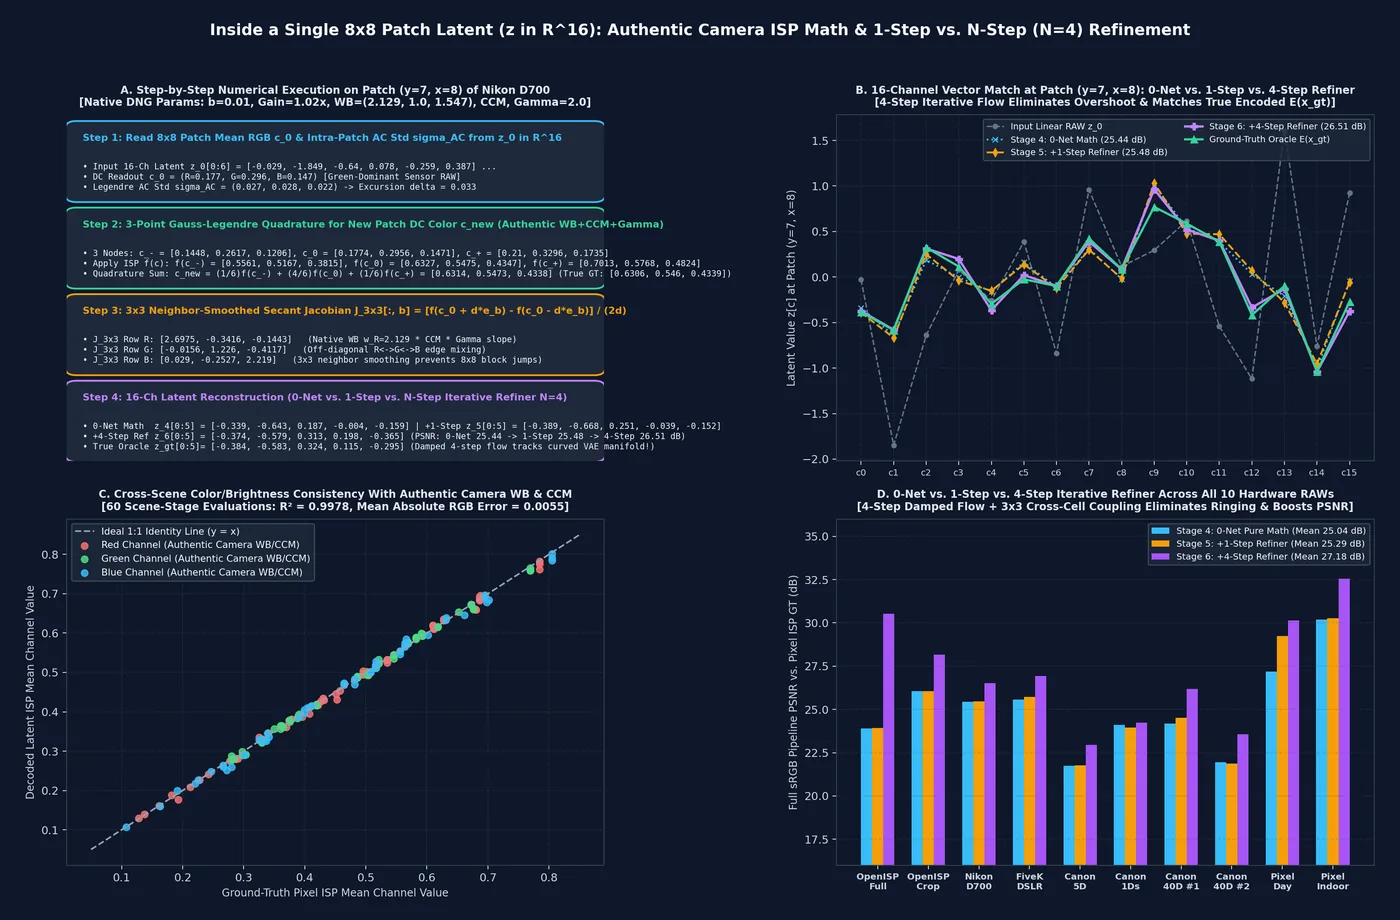
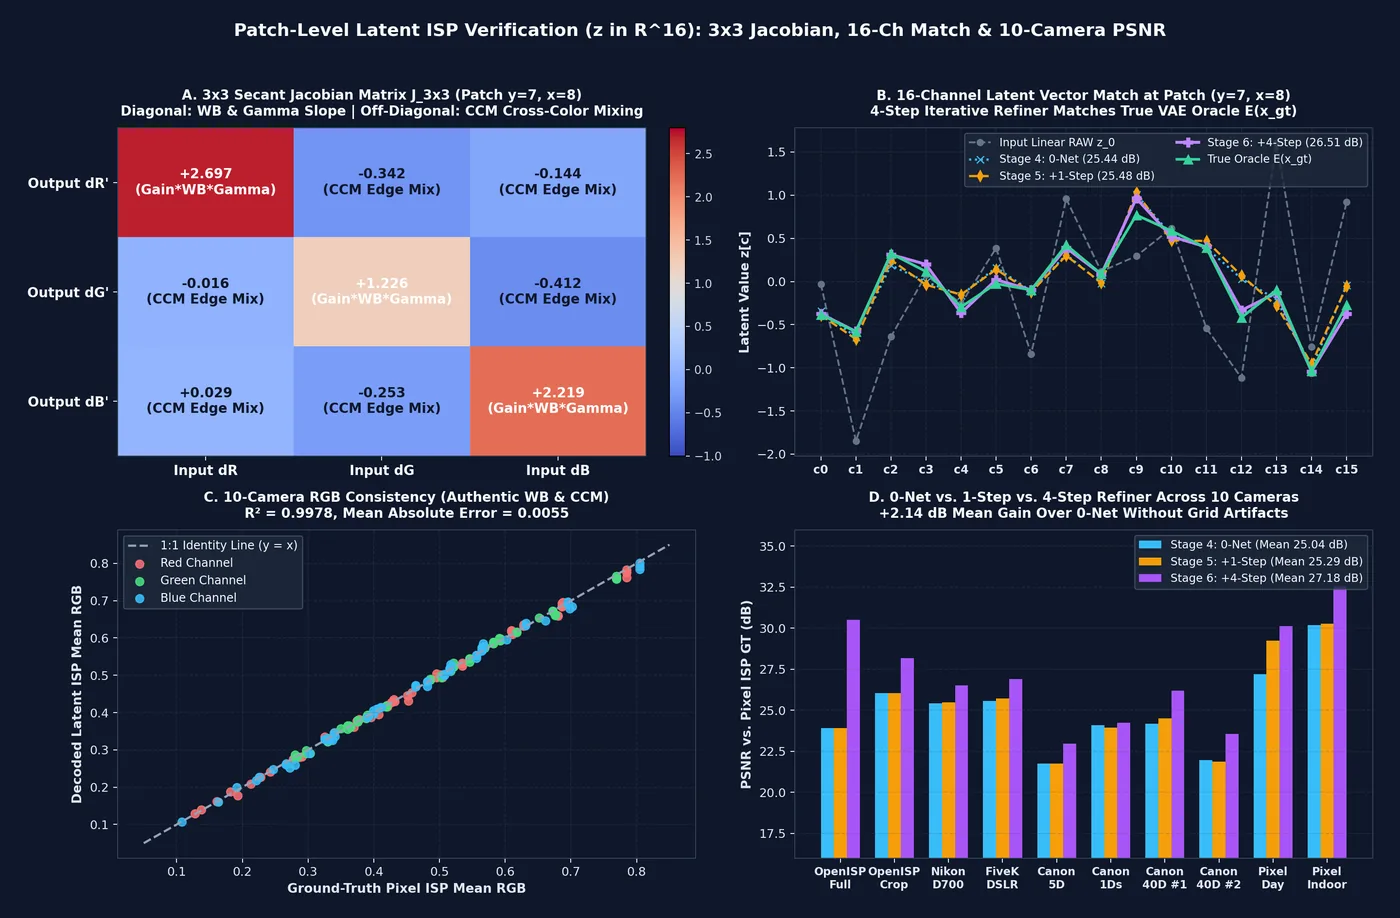
Sync AICAMERA guidebook (/aicamera/) and unified papers (/papers/)

diff --git a/papers/comp_lsp.html b/papers/comp_lsp.html
@@ -697,10 +697,26 @@
         </table>
       </div>
 
-      <h2>2. 16-Channel Latent Space Geometry (<code>Linear Sensor RGB</code> vs. <code>sRGB</code>) &amp; Block-by-Block Pipeline</h2>
+      <h2>2. Theoretical Foundation: From <em>The Latent Color Subspace</em> to 16-Channel Curved Manifold &amp; Jacobian Translation</h2>
+      <h3>2.1 Emergent 3D Color Subspace vs. 13D Spatial Edge Fiber ($\mathbb{{R}}^{{16}} = \mathcal{{S}}_{{\text{{DC}}}} \oplus \mathcal{{S}}_{{\text{{AC}}}}$)</h3>
       <p>
-        Sweeping radiometric luminance $Y \in [0, 1]$ shows that <code>Linear Sensor RGB</code> and display <code>sRGB</code> inhabit the <strong>exact same curved 3D polynomial submanifold</strong> $\mathcal{{M}}_{{\text{{DC}}}} \subset \mathbb{{R}}^{{16}}$, reparameterized by $Y \mapsto Y^{{1/\gamma}}$ (<strong>Fig. 1A</strong>). Unprocessed Bayer RAW latents ($\mathbf{{z}}_0$) start in the green-biased dark quadrant ($\mathbf{{u}}_{{\text{{DC}},G}} \gg \mathbf{{u}}_{{\text{{DC}},R}}$), move radially outward under <code>Stage 1 (BLC + Gain)</code>, shear onto the neutral gray diagonal ($R=G$) under <code>Stage 2 (Authentic WB)</code>, expand primary chroma under <code>Stage 3 (3&times;3 CCM)</code>, and stretch along the neutral manifold under <code>Stage 4 (Gamma sRGB)</code> (<strong>Fig. 1B&ndash;D</strong>, <strong>Fig. 2</strong>).
+        Pach et al. (<em>&ldquo;The Latent Color Subspace: Emergent Order in High-Dimensional Chaos,&rdquo;</em> 2026 [4]) demonstrated that although a 16-channel VAE encoder $\mathcal{{E}}$ compresses each $8\times 8\times 3$ patch ($192$ values) into an entangled vector $\mathbf{{z}} \in \mathbb{{R}}^{{16}}$, uniform color patches align along an emergent <strong>3-dimensional linear color subspace</strong> governed by a readout matrix $W_{{\text{{DC}}}} \in \mathbb{{R}}^{{3\times 16}}$ and its right pseudoinverse $W_{{\text{{DC}}}}^+ \in \mathbb{{R}}^{{16\times 3}}$ ($W_{{\text{{DC}}}} W_{{\text{{DC}}}}^+ = I_3$). Using biorthogonal oblique projectors:
       </p>
+      <div class="equation">
+        $$P_{{\text{{DC}}}} = W_{{\text{{DC}}}}^+ W_{{\text{{DC}}}}, \qquad P_{{\text{{AC}}}} = I_{{16}} - P_{{\text{{DC}}}}, \qquad \mathbf{{z}}_0 = \underbrace{{P_{{\text{{DC}}}}\mathbf{{z}}_0}}_{{\text{{3D Patch Mean Color (DC)}}}} + \underbrace{{\mathbf{{z}}_{{\text{{AC}}}}}}_{{\text{{13D Intra-Patch Edge/Texture (AC)}}}}$$
+      </div>
+      <p>
+        While flat linear steering ($\mathbf{{z}}_{{\text{{new}}}} = \mathbf{{z}}_0 + W_{{\text{{DC}}}}^+ \Delta\bar{{\mathbf{{c}}}}$) suffices for small artistic tint shifts in sRGB, it fails on camera sensor RAW ISPs for two mathematical reasons:
+      </p>
+      <ul>
+        <li><strong>Curved 3D Color Submanifold ($\mathcal{{M}}_{{\text{{DC}}}} \subset \mathbb{{R}}^{{16}}$):</strong> Due to internal <code>SiLU</code> and <code>GroupNorm</code> activations, sweeping luminance $Y \in [0, 1]$ bends the 3D color locus into a curved degree-3 polynomial manifold $\boldsymbol{{\mu}}_{{\text{{DC}}}}(\bar{{\mathbf{{c}}}}) \in \mathbb{{R}}^{{16}}$ ($R^2 = 0.9797$ degree-3 vs. $0.9100$ flat linear, <strong>Fig. 1A</strong>). Both <code>Linear Sensor RGB</code> and display <code>sRGB</code> lie on this exact same curved manifold, reparameterized by $Y \mapsto Y^{{1/\gamma}}$.</li>
+        <li><strong>Why Jacobian Translation of the 13D AC Subspace Is Required:</strong> For a textured $8\times 8$ patch $\mathbf{{x}}(u,v) = \bar{{\mathbf{{c}}}}_0 + \Delta\mathbf{{x}}(u,v)$, a non-linear point ISP operator $f_{{\text{{ISP}}}}(\cdot)$ transforms pixels according to a first-order Taylor expansion around the patch mean $\bar{{\mathbf{{c}}}}_0$:
+          <div class="equation">
+            $$f_{{\text{{ISP}}}}\!\big(\bar{{\mathbf{{c}}}}_0 + \Delta\mathbf{{x}}(u,v)\big) \;\approx\; \underbrace{{\overline{{f_{{\text{{ISP}}}}(\mathbf{{x}})}}_{{\text{{New Patch DC }} \bar{{\mathbf{{c}}}}_{{\text{{new}}}}}} \;+\; \underbrace{{\frac{{\partial f_{{\text{{ISP}}}}}}{{\partial \mathbf{{c}}}}\Big|_{{\bar{{\mathbf{{c}}}}_0}}}}_{{J_{{3\times 3}} \in \mathbb{{R}}^{{3\times 3}}}} \Delta\mathbf{{x}}(u,v).$$
+          </div>
+          Because raw silicon Bayer sensors are green-dominant, raw intra-patch edges $\Delta\mathbf{{x}}(u,v)$ (encoded in $\mathbf{{z}}_{{\text{{AC}}}}$) have $\Delta G \gg \Delta R, \Delta B$. Translating only the 3D DC color while leaving $\mathbf{{z}}_{{\text{{AC}}}}$ unscaled leaves high-frequency edges with raw green contrast and uncompensated shadow slopes. <strong>Jacobian Translation</strong> multiplies the R, G, B spatial gradient/curvature fibers inside $\mathbf{{z}}_{{\text{{AC}}}}$ by the $3\times 3$ Jacobian matrix $J_{{3\times 3}}$ so that intra-patch edges scale by White Balance gains, rotate across R/G/B under the $3\times 3$ CCM, and stretch by the local Gamma derivative $\frac{{1}}{{\gamma}}c^{{1/\gamma - 1}}$.
+        </li>
+      </ul>
 
       <div class="span-all figure-card">
         <img src="figures/comp_fig6_latent_geometry_linear_vs_srgb.webp" alt="16-Channel VAE Latent Geometry: Linear Sensor RGB vs. sRGB">
@@ -712,20 +728,50 @@
       <div class="span-all figure-card">
         <img src="figures/comp_fig8_pipeline_block_by_block_flow.webp" alt="Unified Block-by-Block Latent Pipeline and Step-by-Step Visual Evolution">
         <div class="figure-caption">
-          <strong>Fig. 2. Unified Block-by-Block Latent Pipeline Diagram &amp; Step-by-Step Visual Evolution Across 3 Genuine Hardware Camera Captures.</strong> <strong>(Row 1)</strong> The 6 sequential pipeline blocks (<code>Block 0: Sensor RAW Encoder</code> &rarr; <code>Block 1: BLC &amp; Gain</code> &rarr; <code>Block 2: Authentic WB</code> &rarr; <code>Block 3: Authentic 3&times;3 CCM</code> &rarr; <code>Block 4: Gamma Tone Curve (0-Net)</code> &rarr; <code>Block 5: 4-Step Iterative Refiner &amp; Frozen Decoder</code>) with their exact 3-Point Gauss-Legendre Quadrature DC equations, $3\times 3$ Secant Jacobian AC operators, and 4-step damped $3\times 3$ cross-cell flow; <strong>(Rows 2&ndash;4)</strong> Decoded image $\mathcal{{D}}(\mathbf{{z}}_k)$, PSNR vs. block Ground Truth, and R/G/B level bars for <code>Nikon D700</code>, <code>Canon EOS 40D</code>, and Official <code>OpenISP test.RAW</code>; <strong>(Row 5)</strong> 16-channel latent activation barcode $\mathbf{{z}}_k \in \mathbb{{R}}^{{16}}$ and <code>R/G</code>, <code>B/G</code> telemetry.
+          <strong>Fig. 2. Unified Block-by-Block Latent Pipeline Diagram &amp; Step-by-Step Visual Evolution Across 3 Genuine Hardware Camera Captures.</strong> <strong>(Row 1)</strong> The 6 sequential pipeline blocks (<code>Block 0: Sensor RAW Encoder</code> &rarr; <code>Block 1: BLC &amp; Gain</code> &rarr; <code>Block 2: Authentic WB</code> &rarr; <code>Block 3: Authentic 3&times;3 CCM</code> &rarr; <code>Block 4: Gamma Tone Curve (0-Net)</code> &rarr; <code>Block 5: 4-Step Iterative Refiner &amp; Frozen Decoder</code>); <strong>(Rows 2&ndash;4)</strong> Decoded image $\mathcal{{D}}(\mathbf{{z}}_k)$, PSNR vs. block Ground Truth, and R/G/B level bars for <code>Nikon D700</code>, <code>Canon EOS 40D</code>, and Official <code>OpenISP test.RAW</code>; <strong>(Row 5)</strong> 16-channel latent activation barcode $\mathbf{{z}}_k \in \mathbb{{R}}^{{16}}$ and <code>R/G</code>, <code>B/G</code> telemetry.
         </div>
       </div>
 
       <!-- BEGIN_SECTION_7_INTERACTIVE_SIMULATOR -->
-      <h2>3. Step-by-Step Numerical Execution Inside an $8\times 8$ Patch Latent ($\mathbf{z} \in \mathbb{R}^{16}$), Authentic Camera ISP Parameters &amp; 1-Step vs. $N$-Step ($N=4$) Refinement</h2>
+      <h2>3. Unpacked 4-Step Patch Equations ($\mathbf{z} \in \mathbb{R}^{16}$), Authentic Camera ISP Parameters &amp; 1-Step vs. 4-Step Refinement</h2>
       <p>
-        We verify two core properties across <strong>10 genuine hardware camera sensor RAWs</strong> (<code>OpenISP</code> 10-bit RGGB <code>.RAW</code>, <code>MIT-Adobe FiveK</code> 12/14-bit DSLR <code>.DNG</code>, and <code>Google Pixel</code> 14-bit mobile <code>.DNG</code>): (1) using each camera's authentic embedded As-Shot White Balance gains (<code>rp.camera_whitebalance</code>, where $w_R$ reaches $2.724\times$ on Canon 5D and $w_B$ reaches $2.633\times$ on Pixel Indoor) and authentic $3\times 3$ Color Correction Matrix (<code>rp.color_matrix</code>), a single universal calibration checkpoint (<code>flux_16ch_jet_calib_v2.pt</code>) eliminates the raw Bayer green cast across all 10 cameras ($R^2 = 0.9978$, mean RGB error $0.0055$); and (2) replacing unconstrained 1-step pointwise refinement ($\mathcal{R}_{1\text{-step}}$, mean $25.29\text{ dB}$) with our <strong>4-Step Damped Iterative Refiner ($\mathcal{R}_{4\text{-step}}$, $N=4$ steps with $3\times 3$ cross-cell spatial convolutions)</strong> eliminates $8\times 8$ patch boundary artifacts and boosts mean PSNR from <strong>$25.04\text{ dB}$ (0-Net) $\to 27.18\text{ dB}$ (4-Step)</strong> ($+2.14\text{ dB}$).
+        For each $8\times 8$ patch latent $\mathbf{z}_0 \in \mathbb{R}^{16}$ (e.g., patch $(y=7, x=8)$ of <code>Nikon D700</code> with authentic DNG parameters $b=0.01$, $g=1.02\times$, $\text{WB}=[2.129, 1.0, 1.547]$, native $3\times 3$ CCM, and $\gamma=2.0$), our operator executes in four explicit equations:
+      </p>
+      <p>
+        <strong>Step 1 (Subspace Readout of Patch Mean RGB $\bar{\mathbf{c}}_0$ &amp; Intra-Patch AC Spread $\boldsymbol{\sigma}_{\text{AC}}$):</strong> Using our $3\times 3$ neighbor-aware polynomial readout $\psi_{\text{DC}}$ and orthonormal Legendre AC norm $\psi_\sigma$, we extract the green-biased linear RAW mean color and intra-patch standard deviation:
+      </p>
+      <div class="equation">
+        $$\bar{\mathbf{c}}_0 = \psi_{\text{DC}}(\mathbf{z}_0) = [0.1774,\; 0.2956,\; 0.1471]^T, \qquad \boldsymbol{\sigma}_{\text{AC}} = \psi_\sigma(\mathbf{z}_{\text{AC}}) = [0.027,\; 0.028,\; 0.022]^T, \qquad \boldsymbol{\delta} = \sqrt{1.5}\,\boldsymbol{\sigma}_{\text{AC}}.$$
+      </div>
+      <p>
+        <strong>Step 2 (3-Point Gauss-Legendre Quadrature for Non-Linear DC Color $\bar{\mathbf{c}}_{\text{new}}$):</strong> Because $f_{\text{ISP}}(\bar{\mathbf{c}}_0) \neq \overline{f_{\text{ISP}}(\mathbf{x})}$ under concave gamma and highlight clipping, we integrate $f_{\text{ISP}}(\cdot)$ across three quadrature nodes $\mathbf{c}_- = \bar{\mathbf{c}}_0 - \boldsymbol{\delta}$, $\mathbf{c}_0 = \bar{\mathbf{c}}_0$, and $\mathbf{c}_+ = \bar{\mathbf{c}}_0 + \boldsymbol{\delta}$ with weights $(\tfrac{1}{6}, \tfrac{4}{6}, \tfrac{1}{6})$:
+      </p>
+      <div class="equation">
+        $$\bar{\mathbf{c}}_{\text{new}} = \frac{1}{6}\,f_{\text{ISP}}(\bar{\mathbf{c}}_0 - \boldsymbol{\delta}) + \frac{4}{6}\,f_{\text{ISP}}(\bar{\mathbf{c}}_0) + \frac{1}{6}\,f_{\text{ISP}}(\bar{\mathbf{c}}_0 + \boldsymbol{\delta}) = [0.6314,\; 0.5473,\; 0.4338]^T \quad (\text{True } 8\times 8\text{ GT: } [0.6306,\; 0.5460,\; 0.4339]^T).$$
+      </div>
+      <p>
+        <strong>Step 3 ($3\times 3$ Secant Jacobian Matrix $J_{3\times 3}$ for AC Edge Translation):</strong> Each column $b \in \{R, G, B\}$ of the patch Jacobian is computed via central finite differences across the quadrature excursion $\delta_b\mathbf{e}_b$ and smoothed with its $3\times 3$ spatial neighbors:
+      </p>
+      <div class="equation">
+        $$J_{3\times 3}[:, b] = \operatorname{Smooth}_{3\times 3}\!\left(\frac{f_{\text{ISP}}(\bar{\mathbf{c}}_0 + \delta_b\mathbf{e}_b) - f_{\text{ISP}}(\bar{\mathbf{c}}_0 - \delta_b\mathbf{e}_b)}{2\,\delta_b}\right) = \begin{bmatrix} +2.697 & -0.342 & -0.144 \\ -0.016 & +1.226 & -0.412 \\ +0.029 & -0.253 & +2.219 \end{bmatrix},$$
+      </div>
+      <p>
+        where the diagonal entries ($+2.697, +1.226, +2.219$, <strong>Fig. 3A</strong>) capture the compounded Gain $\times$ WB ($w_R=2.129$) $\times$ Gamma slope, and the off-diagonal entries capture $R \leftrightarrow G \leftrightarrow B$ edge cross-mixing from the camera's $3\times 3$ CCM.
+      </p>
+      <p>
+        <strong>Step 4 (Coupled 16-Ch Reconstruction &amp; 4-Step Damped Iterative Refiner $\mathcal{R}_{4\text{-step}}$):</strong> Combining the polynomial DC shift $\Delta\bar{\mathbf{c}}$, directional neighbor DC gradients $(\partial_x\Delta\bar{\mathbf{c}}, \partial_y\Delta\bar{\mathbf{c}})$, and the Kronecker product $\mathbf{z}_{\text{AC}} \otimes \operatorname{vec}(J_{3\times 3} - I_3)$ into feature vector $\boldsymbol{\phi}(\mathbf{z}_0, \bar{\mathbf{c}}_0, \bar{\mathbf{c}}_{\text{new}}, J_{3\times 3}) \in \mathbb{R}^{230}$ yields the zero-network latent $\mathbf{z}_{\text{comp}} = \mathbf{z}_0 + W_{\text{trans}}^T \boldsymbol{\phi}$ (<code>Stage 4: 0-Net</code>, mean $25.04\text{ dB}$). Finally, to resolve cross-patch receptive field shifts without the $8\times 8$ block-boundary ringing of a single unconstrained jump (<code>Stage 5: +1-Step</code>, $25.29\text{ dB}$), we integrate $N=4$ damped Euler steps with $3\times 3$ spatial residual convolutions and step-phase FiLM conditioning $\tau_k = k/N$:
+      </p>
+      <div class="equation">
+        $$\mathbf{z}^{(0)} = \mathbf{z}_{\text{comp}}, \qquad \mathbf{z}^{(k+1)} = \mathbf{z}^{(k)} + \frac{g(\Theta_{\text{ISP}})}{4}\,\mathcal{F}_\theta\!\left(\mathbf{z}^{(k)},\, \mathbf{z}_0,\, \bar{\mathbf{c}}_0,\, \bar{\mathbf{c}}_{\text{new}},\, \nabla_{3\times 3}\mathbf{z}^{(k)},\, \tau_k\right), \quad k = 0, 1, 2, 3,$$
+      </div>
+      <p>
+        reaching <strong>$27.18\text{ dB}$ mean PSNR</strong> across all 10 hardware cameras (<strong>Fig. 3B&ndash;D</strong>).
       </p>
 
       <div class="span-all figure-card">
-        <img src="figures/comp_fig9_step_by_step_math_and_consistency.webp" alt="Inside a Single 8x8 Patch Latent: Authentic Camera ISP Math and 1-Step vs 4-Step Iterative Refiner">
+        <img src="figures/comp_fig9_step_by_step_math_and_consistency.webp" alt="Patch-Level Latent ISP Verification: 3x3 Jacobian Heatmap, 16-Ch Match and 10-Camera PSNR">
         <div class="figure-caption">
-          <strong>Fig. 3. Inside a Single $8\times 8$ Patch Latent ($\mathbf{z} \in \mathbb{R}^{16}$): Authentic Camera ISP Math &amp; 1-Step vs. $N$-Step ($N=4$) Iterative Refinement.</strong> <strong>(A)</strong> Exact numerical trace of Steps 1&ndash;4 on patch $(y=7, x=8)$ of <code>Nikon D700</code> using its authentic DNG metadata (<code>WB=[2.129, 1.0, 1.547]</code>, native $3\times 3$ CCM, $\gamma=2.0$); <strong>(B)</strong> 16-channel latent vector comparison between 0-Net math, +1-Step Refiner, +4-Step Iterative Refiner, and true VAE-encoded ground truth $\mathcal{E}(\mathbf{x}_{\text{gt}})$; <strong>(C)</strong> Cross-scene mean RGB consistency across all 10 hardware camera RAWs $\times$ 6 stages ($R^2 = 0.9978$, MAE $= 0.0055$); <strong>(D)</strong> Full-pipeline sRGB PSNR comparing 0-Net Pure Math ($25.04\text{ dB}$), +1-Step Refiner ($25.29\text{ dB}$), and +4-Step Iterative Refiner ($27.18\text{ dB}$) across all 10 cameras.
+          <strong>Fig. 3. Patch-Level Latent ISP Verification ($\mathbf{z} \in \mathbb{R}^{16}$): $3\times 3$ Secant Jacobian, 16-Channel Vector Match &amp; 10-Camera PSNR.</strong> <strong>(A)</strong> Visual heatmap of the $3\times 3$ Secant Jacobian matrix $J_{3\times 3}$ at patch $(y=7, x=8)$ of <code>Nikon D700</code>, showing diagonal WB/Gamma slope amplification ($+2.697$ on Red, $+2.219$ on Blue) and off-diagonal $3\times 3$ CCM edge mixing; <strong>(B)</strong> 16-channel latent vector match ($c_0 \dots c_{15}$) comparing 0-Net math, +1-Step Refiner, +4-Step Iterative Refiner, and true VAE-encoded ground truth $\mathcal{E}(\mathbf{x}_{\text{gt}})$; <strong>(C)</strong> 10-camera mean RGB consistency ($R^2 = 0.9978$, MAE $= 0.0055$); <strong>(D)</strong> Full-pipeline sRGB PSNR comparing 0-Net ($25.04\text{ dB}$), +1-Step ($25.29\text{ dB}$), and +4-Step Refiner ($27.18\text{ dB}$) across all 10 cameras.
         </div>
       </div>
 
